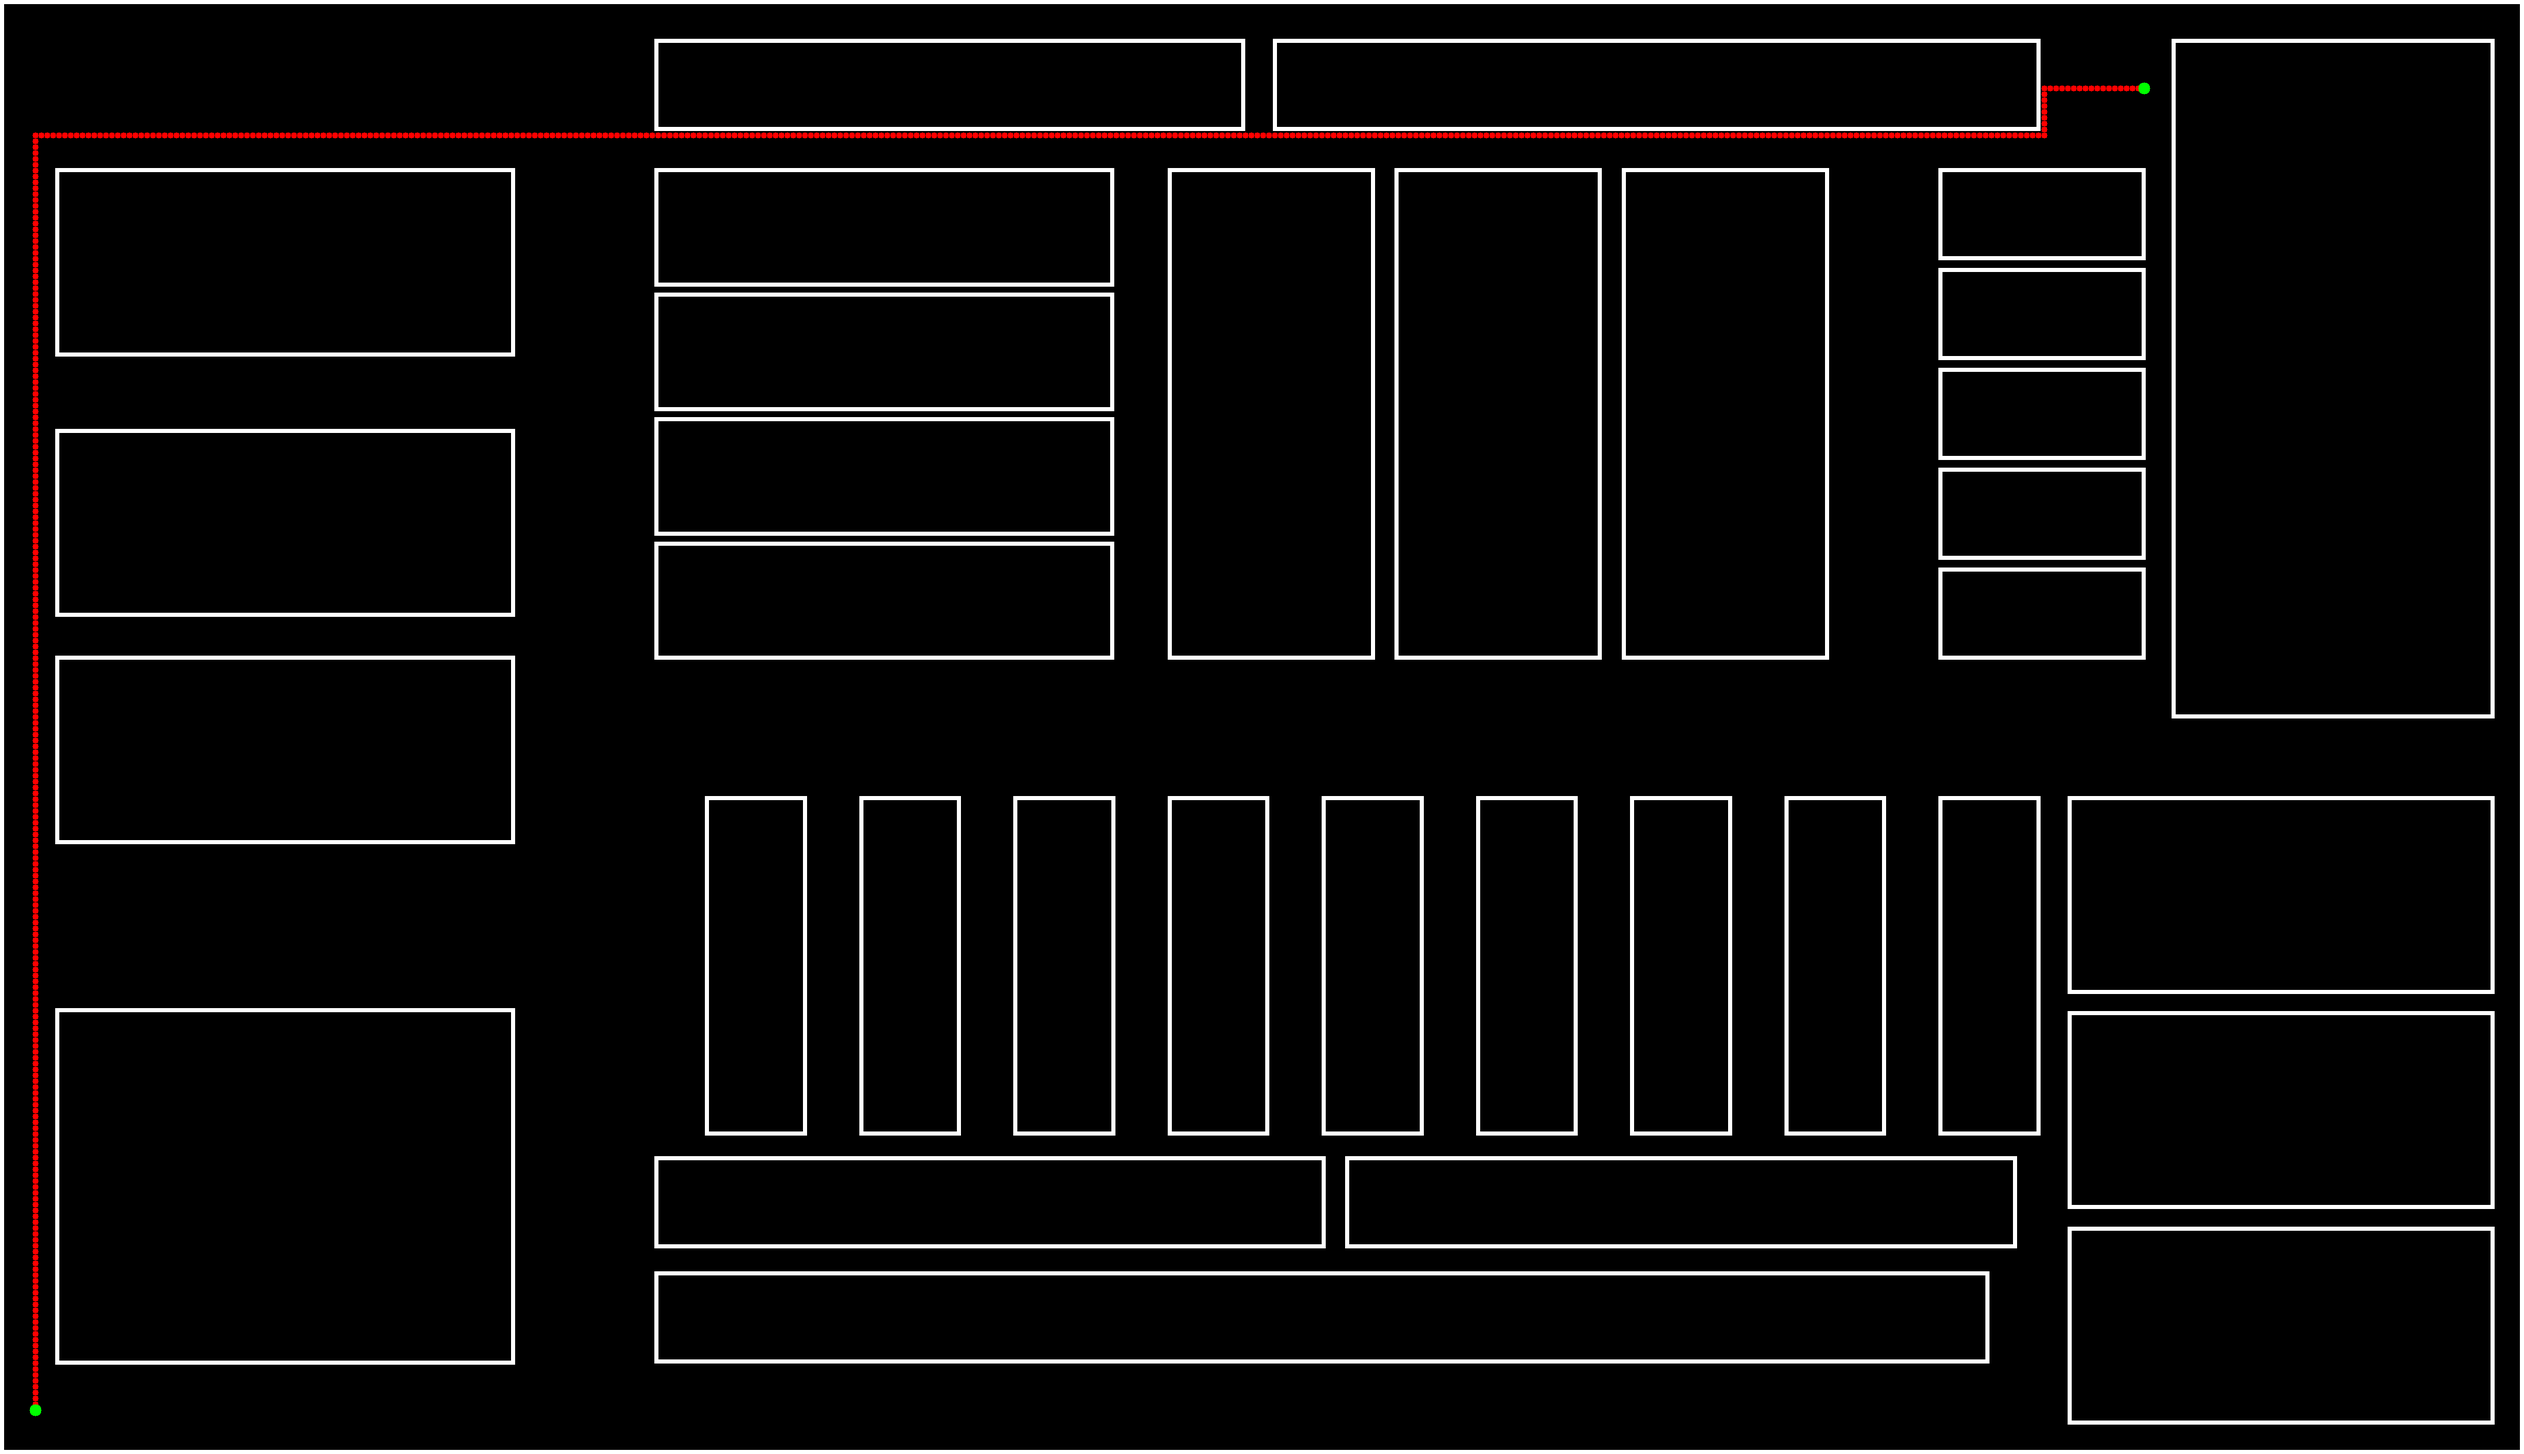
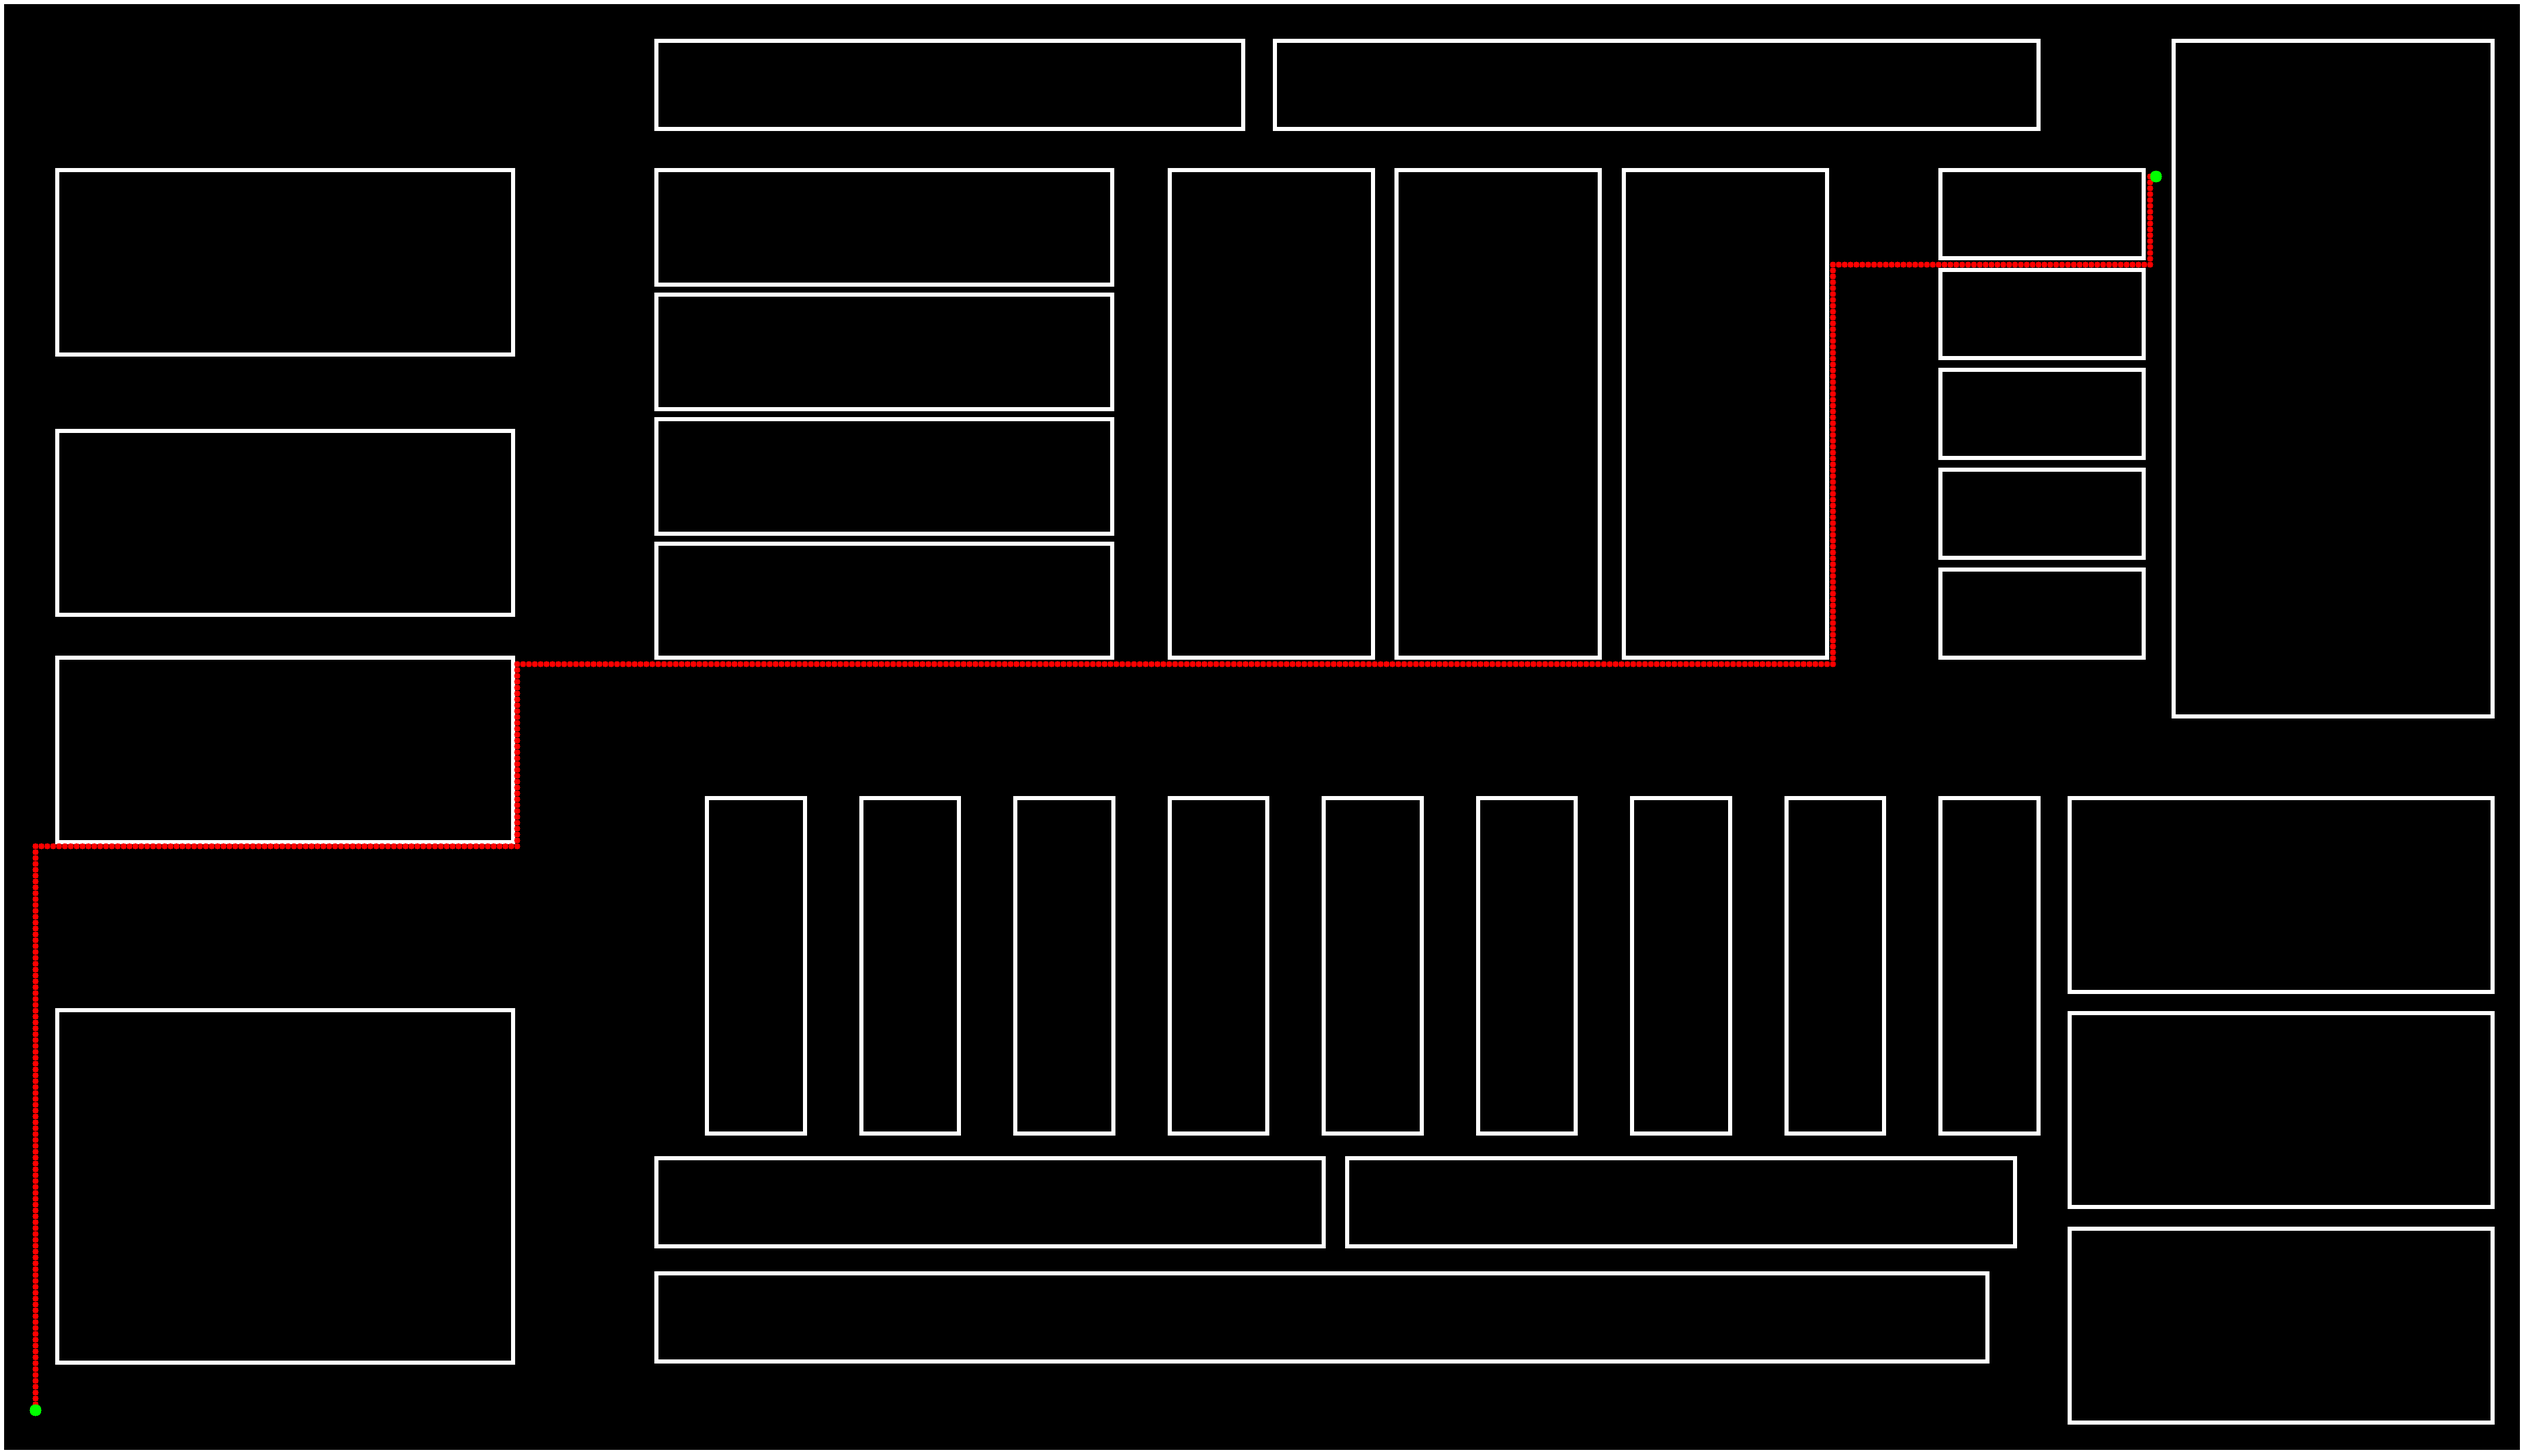
Excelから読み取り通過地点表の行数だけ繰り返し

diff --git a/route_test3.py b/route_test3.py
@@ -9,17 +9,12 @@ def read_coordinates_from_excel(file_path):
     # Excelファイルを読み込み、シート名とテーブルを指定
     df = pd.read_excel(file_path, sheet_name="通過地点表", header=0)  # header=0 は最初の行を列名として読み込む
     
-    # 最初の行をStart地点として取得
-    start_y = df.iloc[0]['Y座標']  # 最初の行のY座標列を取得
-    start_x = df.iloc[0]['X座標']  # 最初の行のX座標列を取得
-    start = (start_y, start_x)
-    
-    # 最後の行をGoal地点として取得
-    goal_y = df.iloc[-1]['Y座標']  # 最後の行のY座標列を取得
-    goal_x = df.iloc[-1]['X座標']  # 最後の行のX座標列を取得
-    goal = (goal_y, goal_x)
-    
-    return start, goal
+    # 座標データをリストとして取得
+    coordinates = []
+    for index, row in df.iterrows():
+        coordinates.append((row['Y座標'], row['X座標']))  # (Y, X) 形式で座標を取得
+
+    return coordinates
 
 # 画像を読み込む
 image = Image.open('test_source.png')
@@ -94,38 +89,38 @@ def astar(start, goal, grid):
 
     return None  # ゴールに到達できない場合
 
-# ExcelからStartとGoalを取得
-start, goal = read_coordinates_from_excel('通過地点表.xlsx')
+# Excelから通過地点を順番に取得
+coordinates = read_coordinates_from_excel('通過地点表.xlsx')
 
-print("Start地点:", start)
-print("Goal地点:", goal)
+# 最初の画像をベースに描画
+color_image = cv2.cvtColor(binary_image, cv2.COLOR_GRAY2BGR)
 
-# A*アルゴリズムで最短経路を探索
-path = astar(start, goal, grid)
-
-# 最短経路が見つかった場合に描画
-if path:
-    # 画像に描画
-    color_image = cv2.cvtColor(binary_image, cv2.COLOR_GRAY2BGR)
-
-    # 経路を描画
-    for (y, x) in path:
-        cv2.circle(color_image, (x, y), 5, (0, 0, 255), -1)  # 赤い点で経路を描画
-
-    # 出発点とゴール点を描画
-    cv2.circle(color_image, (start[1], start[0]), 10, (0, 255, 0), -1)  # 緑色の点
-    cv2.circle(color_image, (goal[1], goal[0]), 10, (0, 255, 0), -1)  # 緑色の点
-
-    # 結果の画像をリサイズして表示する
-    resized_image = cv2.resize(color_image, (1000, 1000))  # 画像を1000x1000にリサイズ（必要に応じて調整）
+# すべての経路を順番に描画
+for i in range(len(coordinates) - 1):
+    start = coordinates[i]
+    goal = coordinates[i + 1]
     
-    # 結果の画像を表示
-    cv2.imshow('Shortest Path', resized_image)
-    cv2.waitKey(0)
-    cv2.destroyAllWindows()
+    # A*アルゴリズムで最短経路を探索
+    path = astar(start, goal, grid)
 
-    # 結果の画像を保存
-    cv2.imwrite("shortest_path_result.jpg", resized_image)
+    # 最短経路が見つかった場合に描画
+    if path:
+        # 経路を描画
+        for (y, x) in path:
+            cv2.circle(color_image, (x, y), 5, (0, 0, 255), -1)  # 赤い点で経路を描画
 
-else:
-    print("Path not found")
+        # 出発点とゴール点を描画
+        cv2.circle(color_image, (start[1], start[0]), 10, (0, 255, 0), -1)  # 緑色の点
+        cv2.circle(color_image, (goal[1], goal[0]), 10, (0, 255, 0), -1)  # 緑色の点
+
+# 結果の画像をリサイズして表示する
+resized_image = cv2.resize(color_image, (1000, 1000))  # 画像を1000x1000にリサイズ（必要に応じて調整）
+
+# 結果の画像を表示
+cv2.imshow('All Shortest Paths', resized_image)
+cv2.waitKey(0)
+cv2.destroyAllWindows()
+
+# 結果の画像を保存
+cv2.imwrite("all_shortest_paths_result.jpg", resized_image)
+

diff --git a/route_test2.py b/route_test2.py
@@ -79,7 +79,8 @@ def astar(start, goal, grid):
 
 # 開始位置とゴール位置の設定
 start = (2400, 60)  # (Y, X)形式
-goal = (150, 3650)  # (Y, X)形式
+#goal = (150, 3650)  # (Y, X)形式
+goal = (300, 3670)  # (Y, X)形式
 
 # A*アルゴリズムで最短経路を探索
 path = astar(start, goal, grid)
